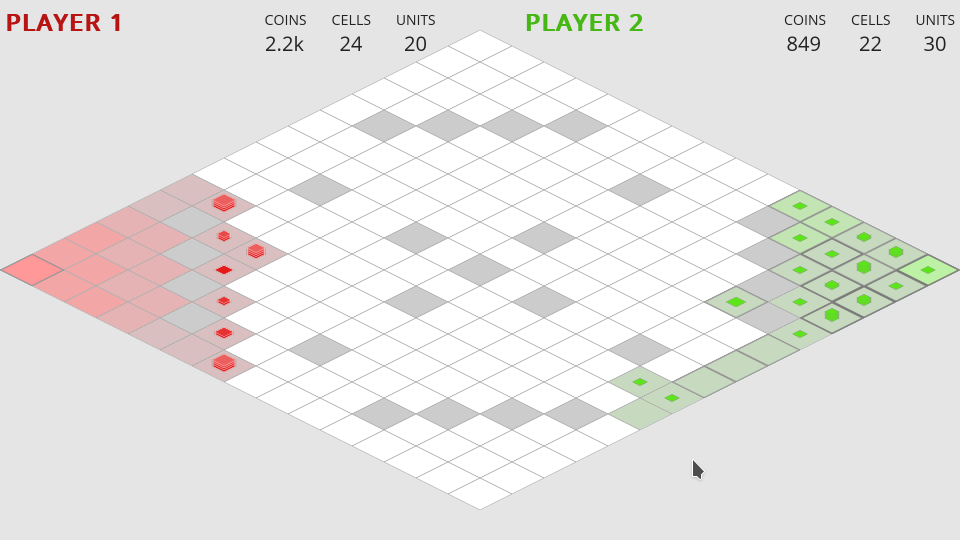
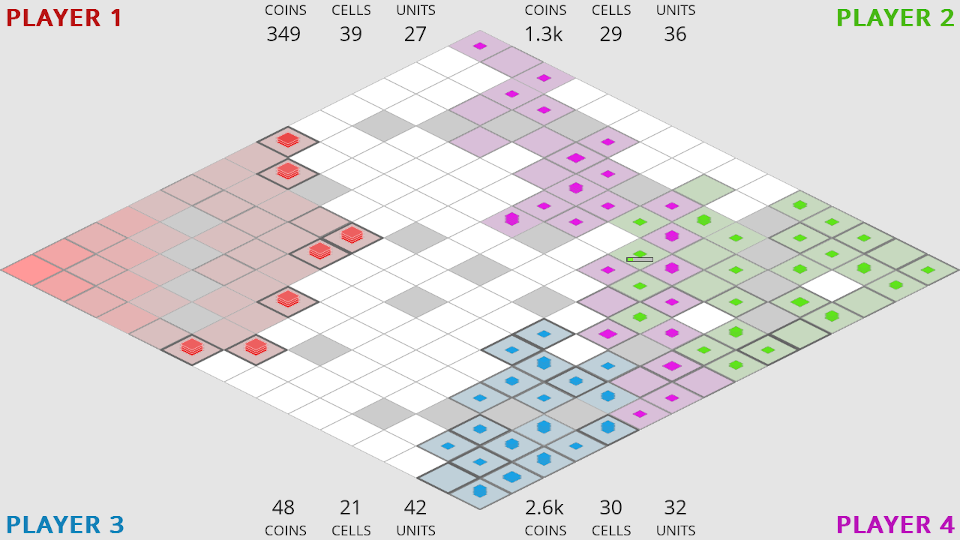
Update screenshot and README

diff --git a/README.md b/README.md
@@ -6,6 +6,6 @@ Currently in early stage. Current name is temporary.
 You can follow the development on [my blog](http://blog.davidecoppola.com/) or on [Linkedin](https://www.linkedin.com/in/davidecoppola/), [Twitter](https://twitter.com/vivaladav) and [Youtube](https://www.youtube.com/channel/UCUYD1ElkmiIklQRemVGxarw).
 
 ## Current status
-Early development, core gameplay implemented.
-It's possible to play a single game against a basic AI (only 1 AI player for now).
+Active development, core gameplay implemented.
+It's possible to play a single game against up to 3 AI opponents even if at the moment the AI is super basic (stupid) and the number of AI opponents is hardcoded.
 ![iso RTS current state screenshot](https://github.com/vivaladav/iso-rts/blob/master/data/help/screenshots/game_01-900.png?raw=true)
